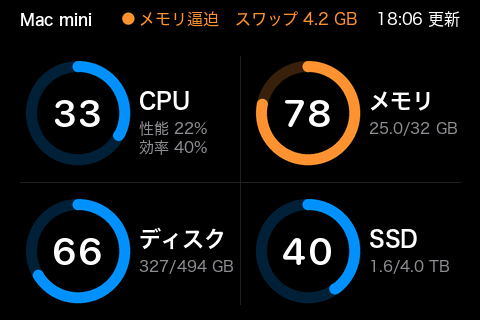
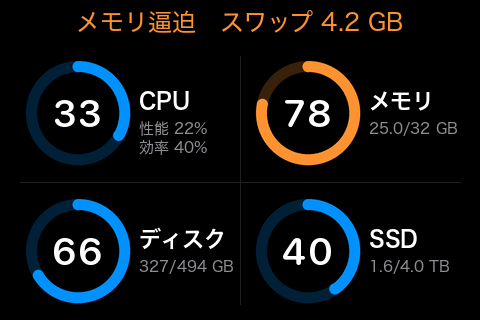
feat(local): この Mac の状態の画面も、注意は見出しの行をまるごと使って大きく出す
サーバーの状態の画面の large_alerts と同じく、ロゴ・名前・右上の時刻を出さない（ユーザーの指示）。
5.2 インチと 3.5 インチの画面の入れ替えは、Ultra の 5 時間の制限が外れるまで見送る（docs/handover.md §5 の 12）。
README の local-warning.png を同じ時刻で描き直した。

Changed region(s): [[0.0312, 0.0312, 0.9688, 0.125]]

diff --git a/tests/test_runner.py b/tests/test_runner.py
@@ -557,6 +557,19 @@ class ArgumentsTest(unittest.TestCase):
             plain = argparse.Namespace(title="Mac mini", ssd="/Volumes/SSD")  # --logo が無い常駐（テストの引数など）
             self.assertIsNone(cli._local_config(plain).logo)
 
+    def test_local_warnings_use_the_whole_header_row(self):
+        # 2026-11-02、この Mac の状態の画面も、注意は見出しの行をまるごと使って大きく出す（ユーザーの指示）
+        args = argparse.Namespace(title="Mac mini", ssd="/Volumes/SSD")
+        self.assertTrue(cli._local_config(args).large_alerts)
+        now = datetime(2026, 10, 15, 9, 0, tzinfo=timezone.utc)
+        reading = cli.local_monitor.build(cli.local_monitor.demo_sample("warning", now), now)
+        image = cli.monitor_screen.render(reading.status, cli.Assessment((), reading.warnings, frozenset()),
+                                          cli._local_config(args), note=reading.note)
+        stamp = [image.getpixel((x, y)) for x in range(380, 460) for y in range(8, 30)]
+        self.assertFalse(any(min(p) > 200 for p in stamp))  # 右上の時刻（白）を出さない
+        title = [image.getpixel((x, 20)) for x in range(20, 80)]
+        self.assertFalse(any(min(p) > 200 for p in title))  # 名前（白）を出さない
+
     def test_preview_size(self):
         for argv, expected in ((["preview"], "480x320"), (["preview", "--size", "1280x720"], "1280x720")):
             with self.subTest(argv=argv), mock.patch.object(cli, "cmd_preview", return_value=0) as preview:

diff --git a/claude_usage_display/__main__.py b/claude_usage_display/__main__.py
@@ -644,9 +644,13 @@ class LocalRunner(MonitorRunner):
 
 
 def _local_config(args) -> MonitorConfig:
-    """この Mac の状態の画面の設定。見出しの名前と、名前の左のロゴ（--logo。無ければ出さない）だけを持つ。"""
+    """この Mac の状態の画面の設定。見出しの名前と、名前の左のロゴ（--logo。無ければ出さない）だけを持つ。
+
+    注意（メモリ逼迫など）は、サーバーの状態の画面の large_alerts と同じく、見出しのロゴ・名前・時刻を出さず、
+    見出しの行をまるごと使って大きく出す（2026-11-02 ユーザーの指示）。
+    """
     return MonitorConfig(title=args.title, region="-", keychain_service="-", metrics=local_monitor.SPECS,
-                         logo=getattr(args, "logo", None))
+                         logo=getattr(args, "logo", None), large_alerts=True)
 
 
 def cmd_local(args) -> int:

diff --git a/docs/handover.md b/docs/handover.md
@@ -458,7 +458,13 @@ scripts/uninstall-launch-agent.sh                                 # 自動起動
   - `monitor_screen._Layout.k`: 配置を 3.5 インチの寸法で書き、描くときに座標と字の大きさを k 倍する（`_Shapes` は k が 1 でないとき拡大して描く倍率を下げる）。`render` に `layout` を渡せる。k が 1 のまま、サーバーの状態・この Mac の状態の 66 通り（設定 2 種・ロゴの有無・大きな文言の有無・正常/異常/ジョブ/取得の失敗・横置き/縦置き）が書き換えの前と 1 ピクセルも違わない
   - `gauge.Layout.columns`（既定 3）と `gauge.render` の `layout`。利用枠の画面 26 通り（3.5・5.2 インチ、アイコンの有無、取得の失敗、Gemini の枠、横棒の画面）が HEAD のコードと 1 ピクセルも違わない
   - **エラーの見出し**（`large_alerts`）: 名前だけを消していた（§4-18）のを、ロゴ・名前・右上の時刻を出さず、帯を左右の余白の内側いっぱいに広げる形にした。テスト `test_alert_hides_the_logo_and_the_time_and_uses_the_whole_row` を足し、行が広がって 1 行に収まるようになった文言に合わせて 2 件を直した（193 件すべて通過）。取得に失敗したときの「…時点」も出なくなることは、ユーザーに伝えた
-- **まだ入れていないこと**（ユーザーが見本を見て決めるのを待っている）: 5.2 インチの配置（見本では、左右の列の区画を 20 右へ寄せ、帯を中央の幅 248 にした）を `monitor_screen` に置き、`monitor` の常駐が 1280×720 のディスプレイではその配置で描くようにする。`run` に週次だけを出す設定を足す。この Mac の状態の画面で `large_alerts` を使う。2 台の常駐を登録し直す（5.2 インチ: `--monitor --device 5.2`、3.5 インチ `0x00120000`: 週次）
+- **ユーザーが見本を了承し、「まだ ultra の 5 時間制限が解除されていないので、現状の 3.5 インチモニターのエラー時にヘッダーいっぱいで表示する修正だけ入れて」と指示した**（同日）
+  - 入れたこと: この Mac の状態の画面で `large_alerts` を常に使う（`__main__._local_config`。テスト `test_local_warnings_use_the_whole_header_row`）。サーバーの状態の画面は `monitor.toml` で `large_alerts = true` にしてあるので、上の変更が常駐を起動し直すと効く。2 台の常駐を起動し直した。README の `local-warning.png` を同じ時刻（10-15 18:06）で描き直した（変わったのは見出しだけ）
+  - **5.2 インチと 3.5 インチの画面の入れ替えは、ユーザーが 5 時間の制限が外れるまで見送った**（§5 の 12）
+- **入れ替えの作業**（§5 の 12）
+  - 5.2 インチの配置（見本では、左右の列の区画を 20 右へ寄せ、帯を中央の幅 248 にした）を `monitor_screen` に置き、`monitor` の常駐が 1280×720 のディスプレイではその配置で描くようにする
+  - `run` に週次だけを出す設定を足す（見本は `gauge.Layout(480, 320, columns=2, cards=False, number=36, percent_sign=False, content=1.2)` に、週次と Fable 週次の 2 つを渡した）
+  - 2 台の常駐を登録し直す（5.2 インチ: `--monitor --device 5.2`、3.5 インチ `0x00120000`: 週次）
 
 ## 5. 残っている作業（上から順に）
 
@@ -572,6 +578,10 @@ scripts/uninstall-launch-agent.sh                                 # 自動起動
     2. サーバーの状態の常駐を、その 3.5 インチの位置を付けて登録し直す: `scripts/install-launch-agent.sh --monitor --device 3.5 --brightness 25 --location 0x…`（付けないと、2 つの常駐が同じ 3.5 インチを取り合う）
     3. この Mac の状態の常駐を登録する: `scripts/install-launch-agent.sh --local --location 0x… --logo "$HOME/Library/Application Support/claude-usage-display/icons/apple.png"`（明るさはサーバーの画面と見比べて決める。ロゴは §4-15 の「見出しの Apple のロゴ」）。天地が逆なら `--flip`
     4. 実機の画面をユーザーに見てもらう（見出しの「バックアップ …」、CPU の 2 行目、ログ `~/Library/Logs/claude-usage-display-local.log`）
+
+12. **5.2 インチにサーバーの状態、3.5 インチ（`0x00120000`）に Claude の週次を出す**（ユーザーが後回しを決めた。2026-11-02）
+    - 見本はユーザーが了承した（§4-23）。作業の中身は §4-23 の「入れ替えの作業」
+    - **再開のきっかけ**: Ultra のアカウントの検証が済み、5 時間の制限が外れたとき。claude.ai の Settings > Usage に Current session の欄が出なくなる（公式の記事「What is the Ultra plan?」）。利用枠の API で `kind: "session"` がどう変わるか（消えるか、`is_active` などが変わるか）も、そのときに確かめる。いまのコードは、`limits` に `session` が無いと古い形式の `five_hour` を使い、両方とも無いと「5時間」のリングを灰色の「--」にする
 
 ## 6. 公開するときに確かめること
 
